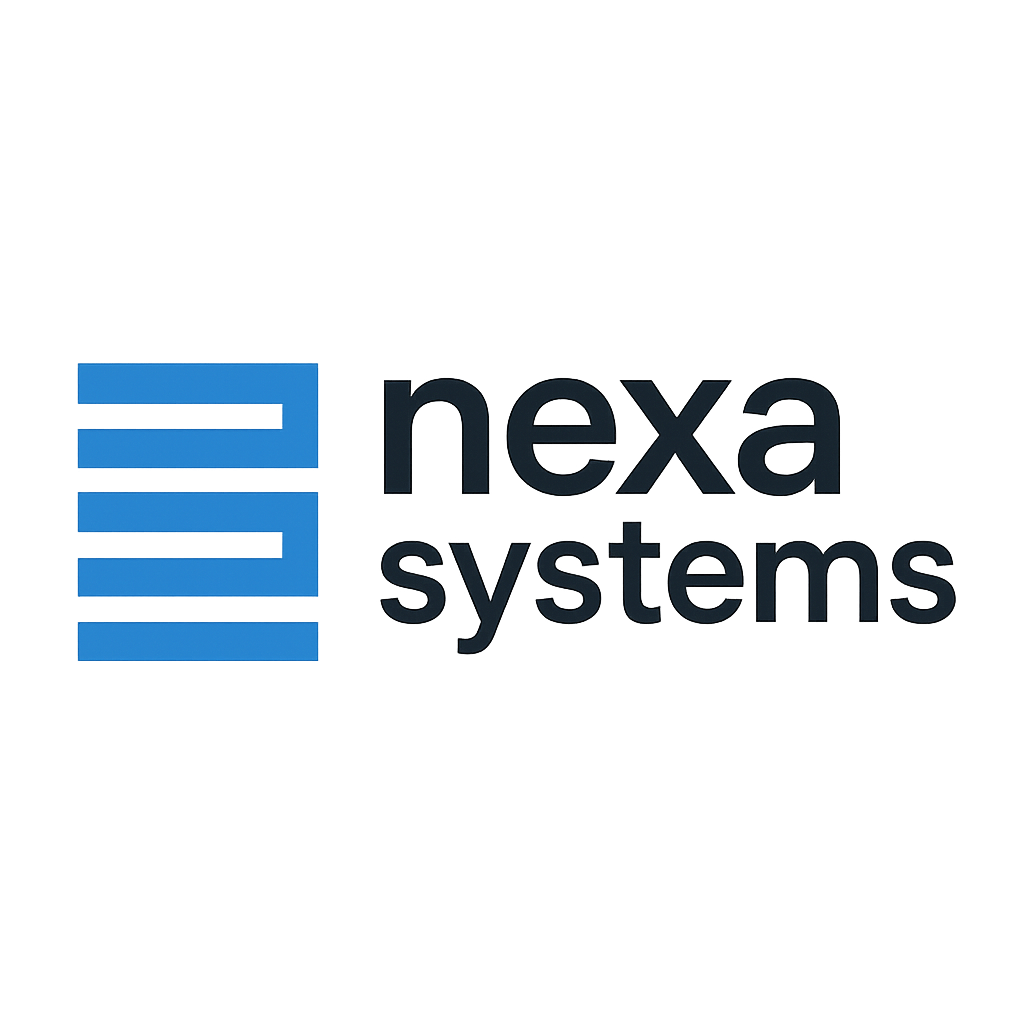
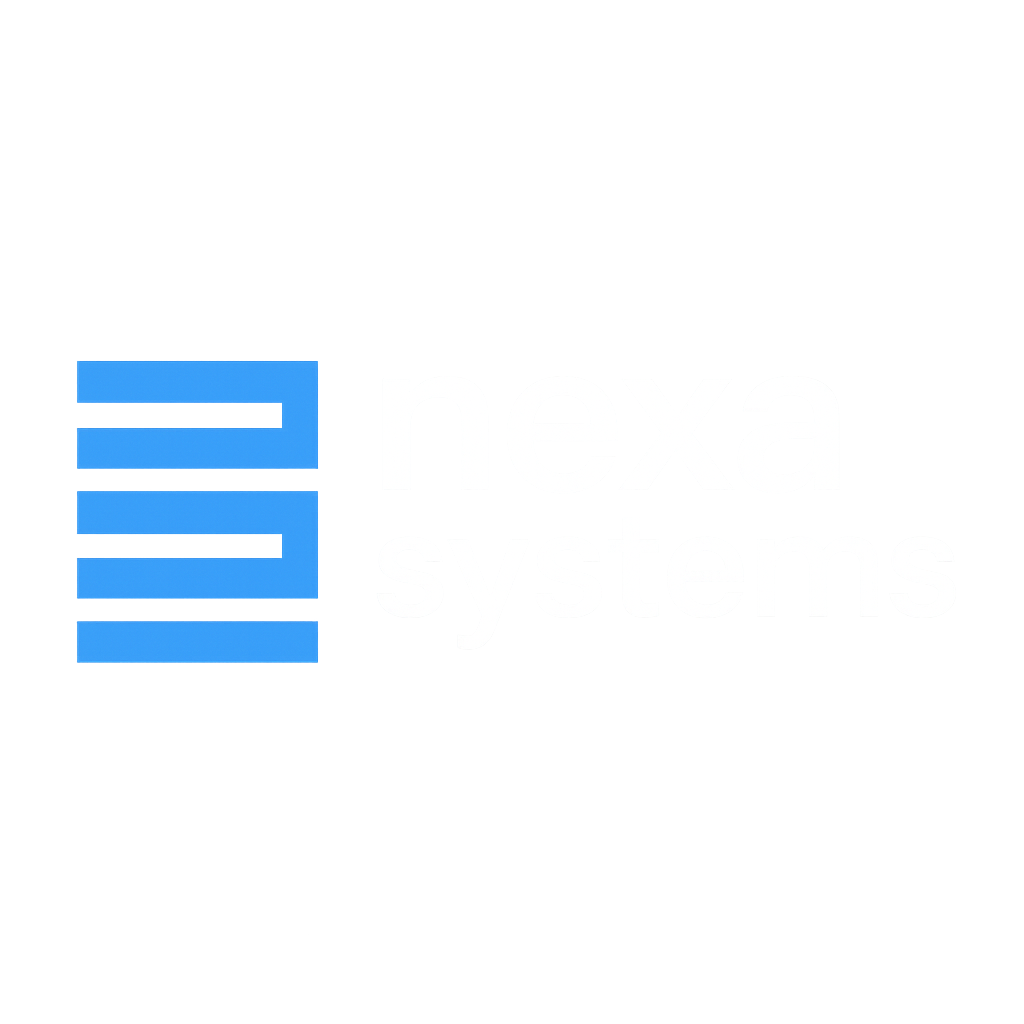
Ändringar css.style
Logga utbytt, pyssla lite med bilderna, ändrat lite färger, lagt till outline på textrutorna, skicka in knappen fixad med hover effekt, gjort formuläret så att det är längst ner på sidan vertikalt istället för sidleds.

Changed region(s): [[0.375, 0.3438, 0.9375, 0.6562], [0.0625, 0.3438, 0.3125, 0.6562]]

diff --git a/style.css b/style.css
@@ -18,7 +18,7 @@ header {
 }
 
 header img, header .logga {
-    width: 120px;
+    width: 130px;
     height: auto;
 }
 
@@ -53,7 +53,7 @@ header img, header .logga {
 }
 
 #meny a {
-    color: black;
+    color: rgb(255, 255, 255);
     text-decoration: none;
     font-size: 1.2rem;
     display: block;
@@ -68,7 +68,7 @@ header img, header .logga {
 h1, h2, h3, h4 {
     font-weight: 700;
     text-transform: uppercase;
-    color: #2785d0;
+    color: #2c6fa3;
     text-align: center;
     margin: 2rem 0 1rem 0;
 }
@@ -81,7 +81,7 @@ p {
     font-size: 1rem;
     margin: 1rem 0;
     padding: 0 1rem;
-    text-align: justify;
+    text-align: center;
 }
 
 /* --- Anställda sektion --- */
@@ -97,11 +97,12 @@ p {
 }
 
 .anställd img {
-    width: 50%;
-    max-width: 150px;
-    height: auto;
-    border-radius: 50%;
+    width: 220px;
+    max-width: 220px;
+    height: 220px;
+    border-radius: 15%;
     transition: all 0.3s ease-in-out;
+    object-fit: cover;
 }
 
 .anställd img:hover {
@@ -125,8 +126,8 @@ p {
     display: inline-block;            
     margin-top: 1rem;
     padding: 0.5rem 1rem;
-    background-color: #2c6fa3;       
-    color: black;
+    background-color: #2c6fa3;      
+    color: rgb(255, 255, 255);
     text-decoration: none;
     border-radius: 4px;              
     font-weight: 600;
@@ -134,7 +135,7 @@ p {
 }
 
 .läs-mer:hover {
-    background-color: #1f4e73;       
+    background-color: #2c6fa3; 
     transform: scale(1.05);          
 }
 
@@ -148,7 +149,7 @@ p {
         position: static;
         display: flex;
         flex-direction: row;
-        background: #2785d0;
+        background: #2c6fa3;
         height: auto;
         width: auto;
         padding: 0;
@@ -177,4 +178,49 @@ p {
         font-size: 1.2rem;
         padding: 0 2rem;
     }
+}
+
+#kontaktformulär {
+    max-width: 600px;
+    margin: 2rem auto;
+    padding: 2rem;
+    background-color: #ffffff; 
+    border-radius: 12px;
+    box-shadow: 0 4px 10px rgba(0,0,0,0.1);
+    font-family: "Roboto", sans-serif;
+    display: flex;
+    flex-direction: column;
+    gap: 1rem;
+}
+
+#kontaktformulär label {
+    font-weight: 600;
+    margin-bottom: 0.3rem;
+    color: #2c6fa3;
+}
+
+#kontaktformulär input,
+#kontaktformulär textarea {
+    padding: 0.7rem 1rem;
+    border: 1.1px solid #2c6fa3;
+    border-radius: 8px;
+    font-size: 1rem;
+    outline: none;
+    transition: all 0.2s ease-in-out;
+}
+
+#kontaktformulär button {
+    padding: 1rem 0.3rem;
+    background-color: #2c6fa3;
+    color: #fff;
+    border: none;
+    border-radius: 8px;
+    font-size: 1.3rem;
+    font-weight: 600;
+    transition: background 0.3s, transform 0.2s;
+}
+
+#kontaktformulär button:hover {
+    background-color: #1f4f73;
+    transform: scale(1.05);
 }

diff --git a/huvudsida.html b/huvudsida.html
@@ -69,19 +69,19 @@
   <h4 id="kontaktaOss">Kontakta oss</h4>
   
   <form id="kontaktformulär" class="form">
-    <label for="name">Namn:</label>
+    <label for="name">Namn</label>
     <input type="text" id="name" name="name" >
     <span id="nameFeedback"></span>
 
-    <label for="phone">Telefonnummer:</label>
+    <label for="phone">Telefonnummer</label>
     <input type="text" id="phone" name="phone" >
     <span id="phoneFeedback"></span>
 
-    <label for="email">Email:</label>
+    <label for="email">Email</label>
     <input type="email" id="email" name="email" >
     <span id="emailFeedback"></span>
 
-    <label for="message">Meddelande:</label>
+    <label for="message">Meddelande</label>
     <textarea id="message" name="message" rows="5"></textarea>
     <span id="messageFeedback"></span>
 
